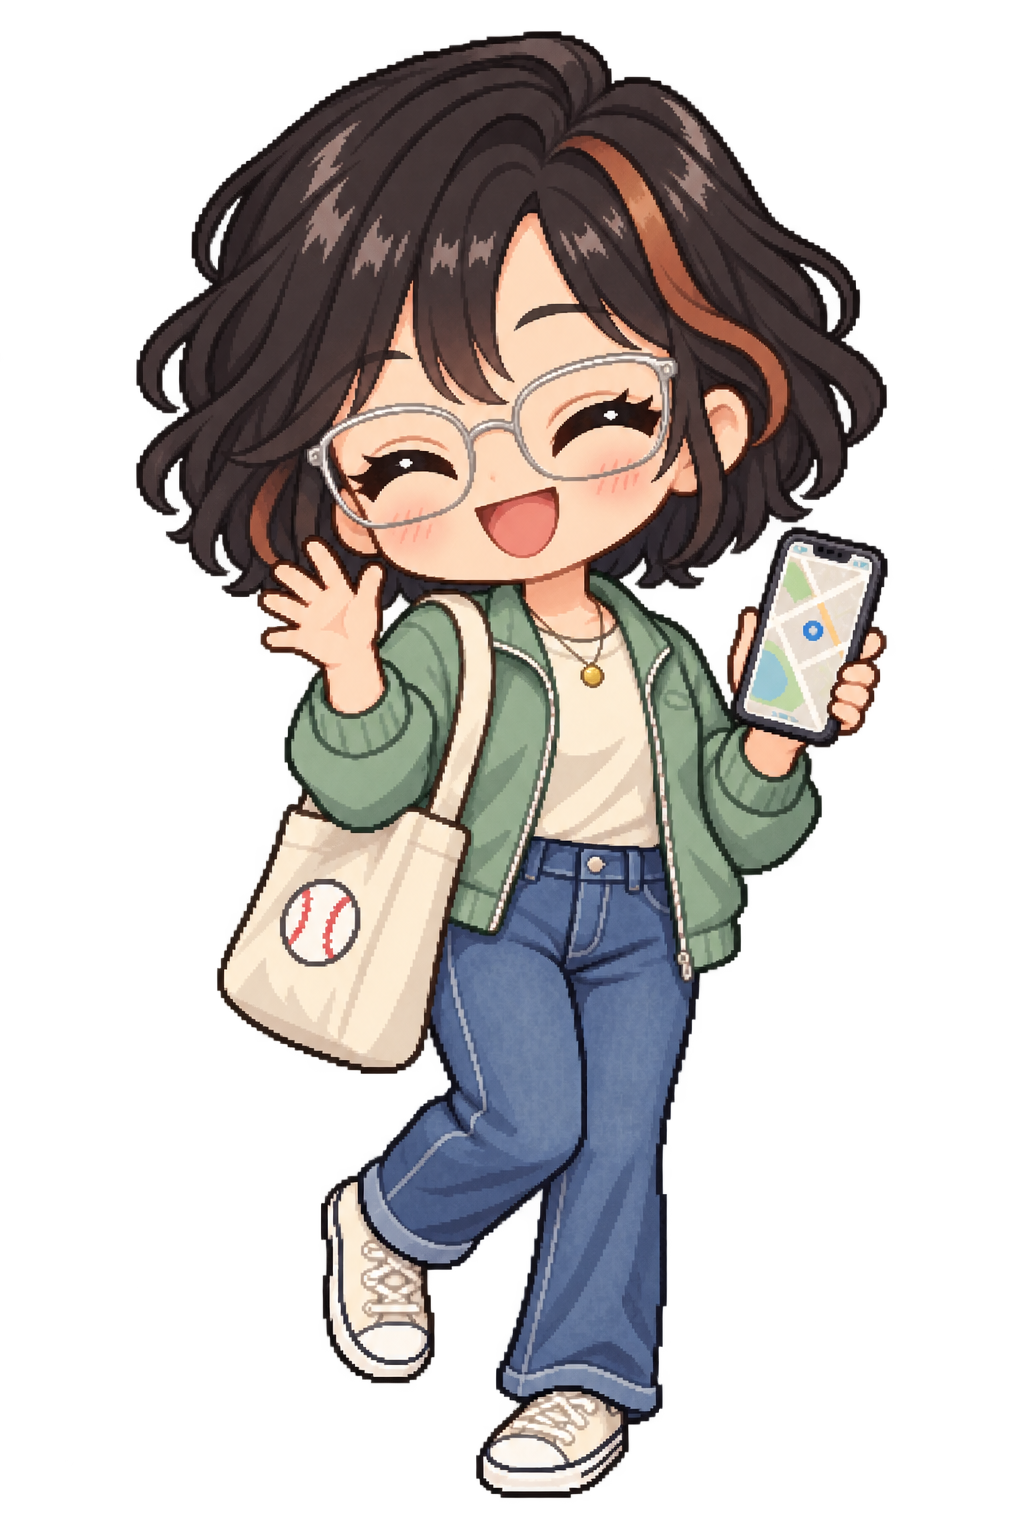
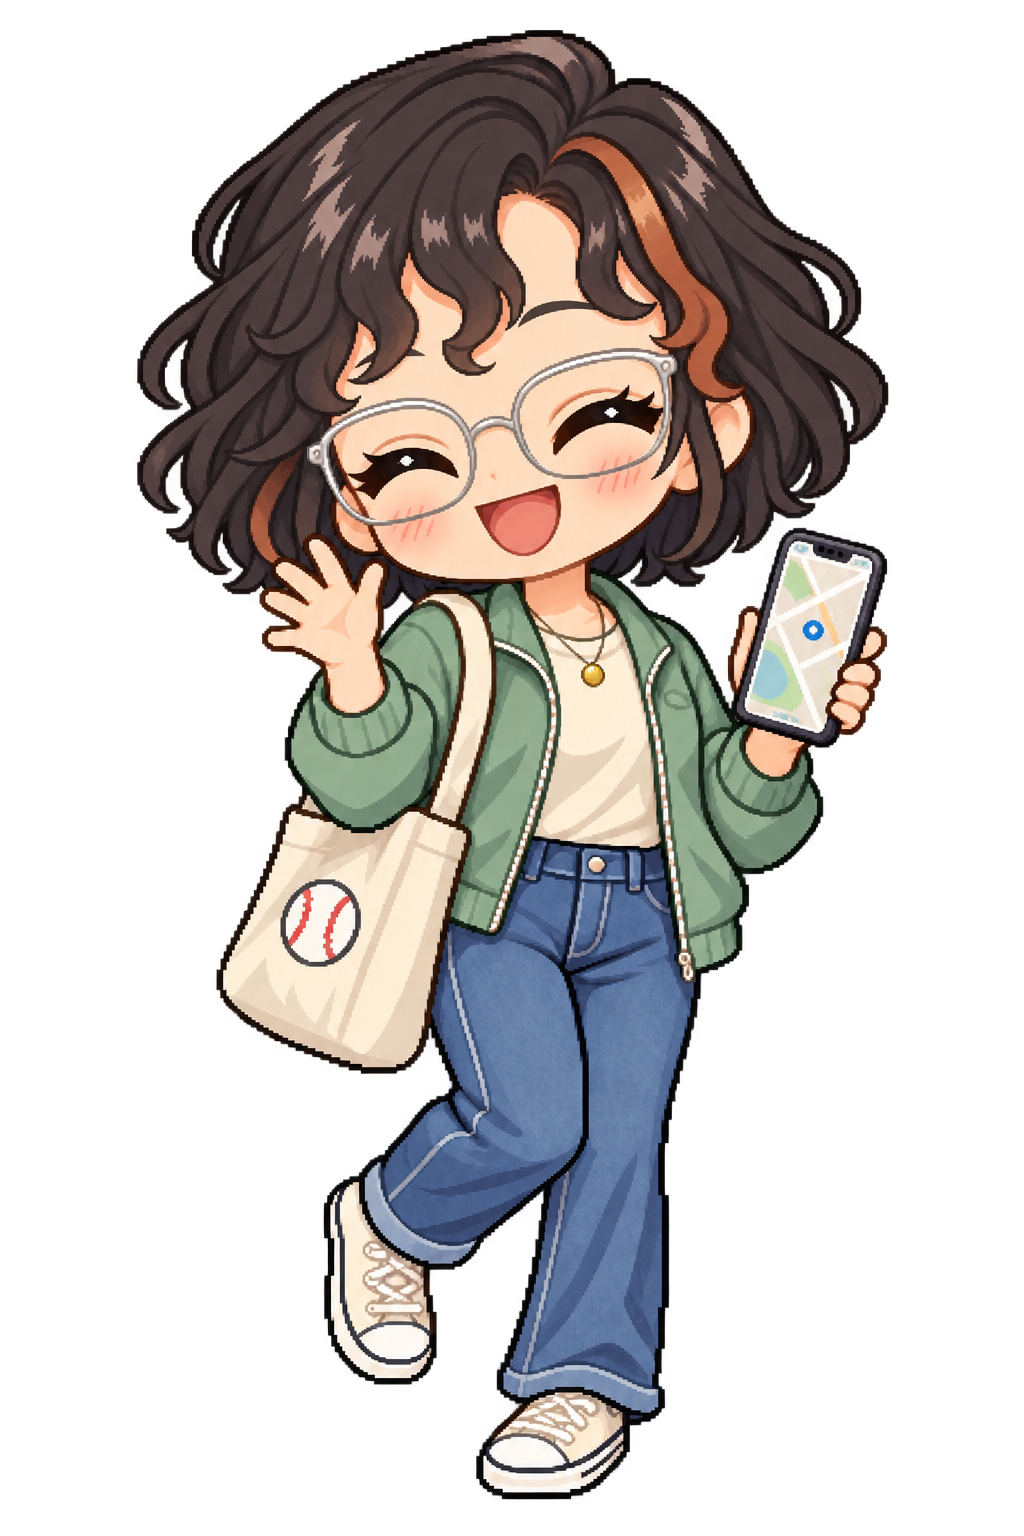
Differentiate heroine bangs while preserving pixel style

diff --git a/개발노트.md b/개발노트.md
@@ -13,6 +13,7 @@
 - `expand-heroine-roster` 브랜치: 새 히로인 9명(총 15명), 인물별 첫 만남 1·알아가기 2·교제 후 2·배우자 1, 총 54장과 전용 엔딩 9종. 자유행동 후보에도 자동 연결됩니다. 새 그림은 인물별 대표 1장씩이며 기존 귀여운 작은 픽셀 비율을 유지하고 머리색·눈매·소품으로 구분합니다. 길쭉한 비율의 재제작 시안은 채택하지 않았습니다. 아직 머지 전입니다.
 - 새 인물: 고교 한지우·서미래·윤채아·강민서·백소율, 프로 오하린(20세 이상·1군)·정예린(20세 이상), MLB 에밀리 워커·제이든 박(20세 이상). 미국 두 인물은 현지 생활 기반을 뜻하는 `외국인: true`로 국내 복귀 작별 규칙을 적용합니다. 라이벌 이름은 사용자 설정에 맞춰 백도현으로 통일했습니다.
 - 머리 모양 보완: 서미래는 붉은 갈색의 높은 올림머리, 오하린은 밝은 갈색의 옆머리 땋은 단발로 교체했습니다. 기존 픽셀 화풍·얼굴·의상·소품을 유지하고 수정 프롬프트는 `assets/fine-pixel/heroine-expansion.json`의 `edits`에 남겼습니다.
+- 앞머리도 추가 구분: 서미래는 이마 노출, 윤채아는 둥근 풀뱅, 강민서는 시스루뱅, 백소율은 짧고 불규칙한 앞머리, 에밀리는 모자 아래 뒤로 넘긴 머리, 제이든은 곱슬 앞머리. 한지우·오하린·정예린은 유지했습니다. 사용자가 요청한 4종 차분은 앞머리 수정부터 진행하라는 요청으로 보류 중이며, 표정/관계 단계와 대상 2명/9명에 대한 확인 질문은 아직 답변 대기 중입니다.
 - 검증: `heroine-roster-check.js` 54장·162개 선택 결과/등장 경계/개별 교류/작별/엔딩, `heroine-roster-ui-check.js` 9명 첫 만남 그림/320·390·1280px/저장·갤러리, 기존 romance/free-time/date/ending 검사 통과. 자동 플레이 200판 오류 0. 그림 모음은 `assets/fine-pixel/index.html?group=신규`입니다.
 
 ## 2. 사용자와 일하는 방식
